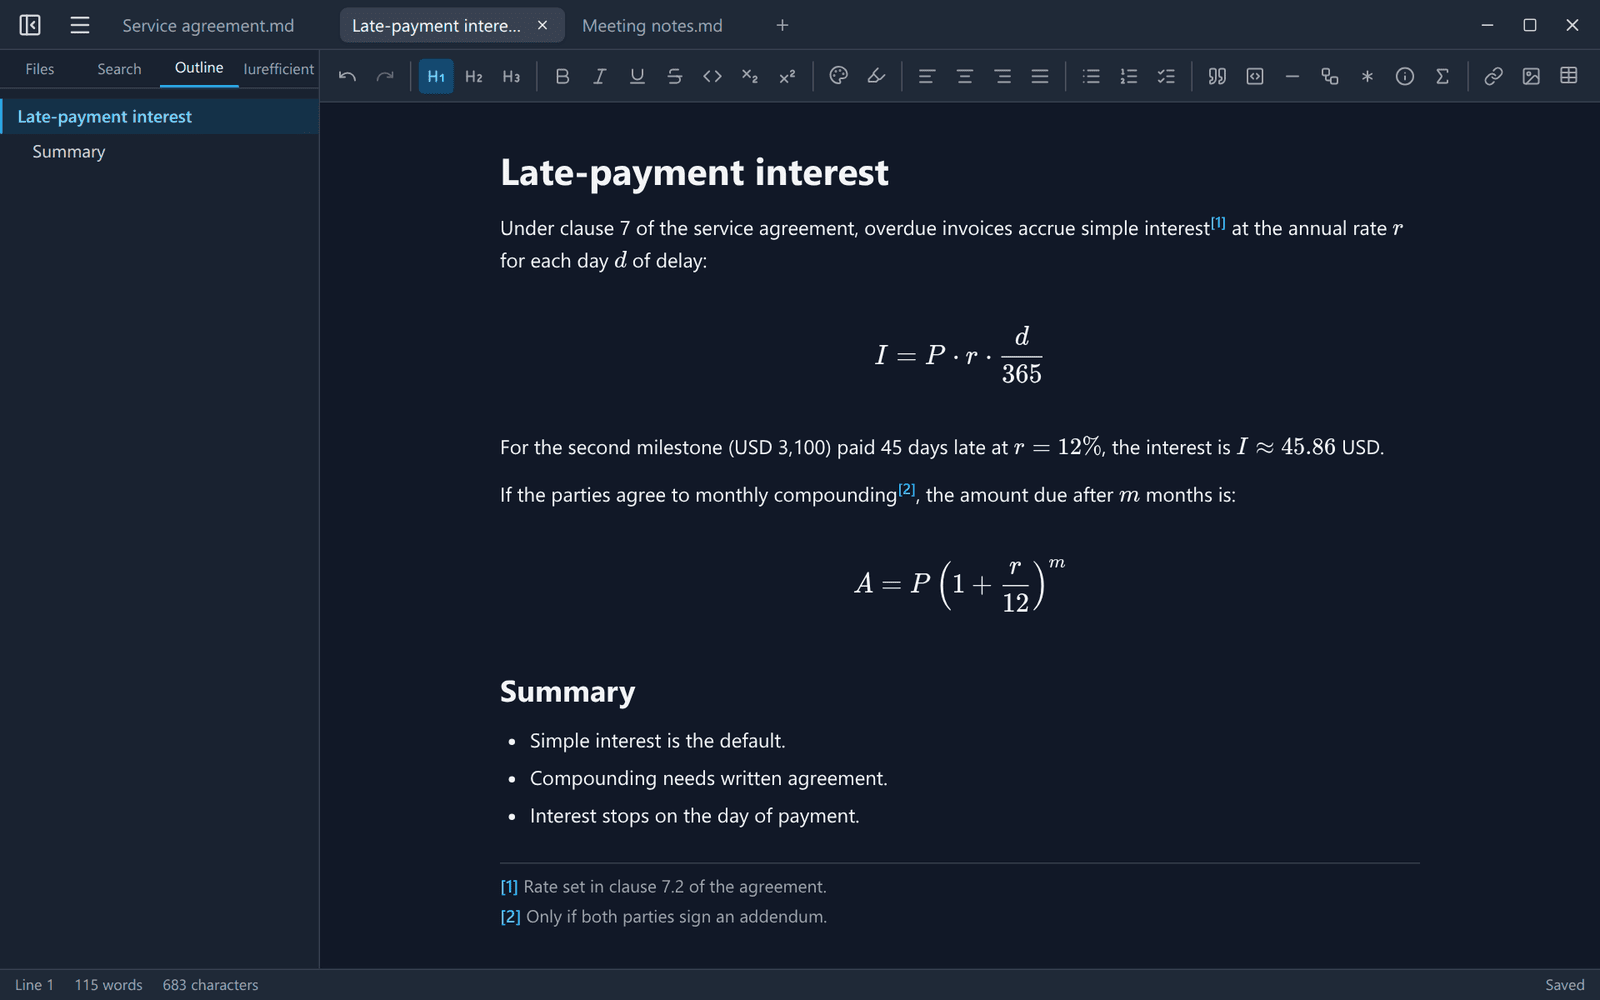
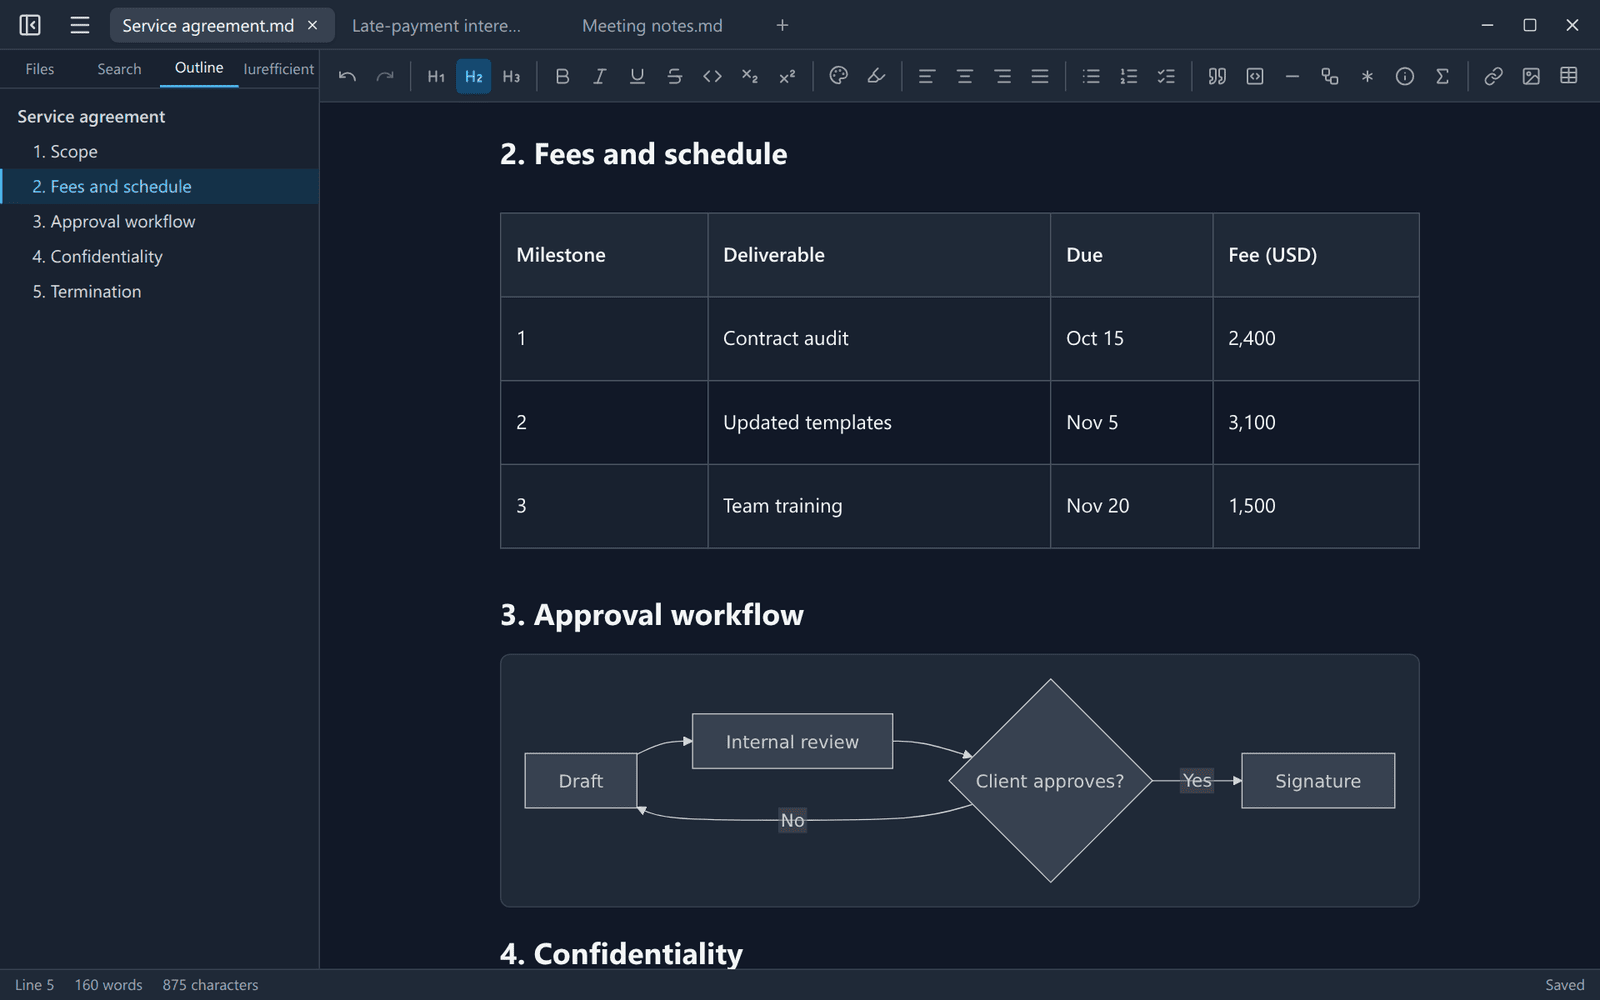
Mermaid legible con el tema oscuro; nombre en minúsculas
- Con el tema oscuro los diagramas se dibujan con el tema 'dark' de mermaid
  (fondo gray-800, nodos gray-700, secciones y etiquetas claras) y se
  vuelven a dibujar al cambiar de tema. Los exports (PDF/DOCX/HTML y
  SVG/PNG por diagrama) siguen usando el tema claro.
- Capturas dark-en/dark-es regeneradas con el contrato y su diagrama
  Mermaid; leyendas del README actualizadas.
- Comentario del updater: en Linux aplica también a .deb/.rpm (v1.9.1).
- "IureEditor" → "iureditor" en agente de usuario, app activa y textos.
- CHANGELOG: sección «Sin publicar».

diff --git a/src/lib/mermaid.ts b/src/lib/mermaid.ts
@@ -6,6 +6,8 @@ let mermaidInitPromise: Promise<typeof import('mermaid').default> | null = null;
 
 const BASE_CONFIG = {
   startOnLoad: false,
+  // Tema claro: es el de export (PDF/DOCX/HTML, SVG/PNG por diagrama), que
+  // debe salir apto para imprimir aunque la app esté en tema oscuro.
   theme: 'default' as const,
   securityLevel: 'strict' as const,
   // Fuente EXPLÍCITA y la misma que usa resvg al rasterizar (sans-serif →
@@ -30,6 +32,50 @@ const BASE_CONFIG = {
   },
 };
 
+// Tema oscuro, sólo para la vista en pantalla: con el tema default sobre el
+// fondo oscuro del nodo, líneas, flechas, bordes de grupo y etiquetas de
+// arista salían #333 sobre gris oscuro, casi invisibles. El tema 'dark' de
+// mermaid deriva líneas y texto claros a partir del fondo; se le da el mismo
+// fondo que el contenedor (gray-800) para que los contrastes calculados
+// coincidan con lo que se ve. Sin los cScaleLabel del tema claro: aquí las
+// secciones de mapas mentales/timelines ya son oscuras con texto claro.
+const DARK_CONFIG = {
+  ...BASE_CONFIG,
+  theme: 'dark' as const,
+  themeVariables: {
+    darkMode: true,
+    background: '#1f2937',
+    // Relleno de nodos gray-700 (el del tema, casi negro, quedaba más oscuro
+    // que el propio fondo y los nodos parecían agujeros).
+    mainBkg: '#374151',
+    primaryColor: '#374151',
+    // Grupos (subgraph) discretos: el calculado era un gris azulado claro.
+    clusterBkg: '#273244',
+    clusterBorder: '#6b7280',
+    // La primera sección de mapas mentales/timelines y la primera porción de
+    // los pies salían casi negras (#0b0000): se cambia por un azul oscuro.
+    cScale1: '#1e3a8a',
+    // Etiquetas de sección claras sobre los rellenos oscuros del tema.
+    ...Object.fromEntries(
+      Array.from({ length: 12 }, (_, i) => [`cScaleLabel${i}`, '#e5e7eb'])
+    ),
+  },
+};
+
+/** ¿La app está en tema oscuro? (clase `dark` en <html>, ver prefs.ts). */
+export const isDarkTheme = (): boolean =>
+  typeof document !== 'undefined' && document.documentElement.classList.contains('dark');
+
+// Configuración actualmente aplicada a la instancia global de mermaid, para
+// re-inicializar sólo cuando cambia (tema de la app o render de export).
+let appliedConfig: object | null = null;
+
+const applyConfig = (m: typeof import('mermaid').default, config: object) => {
+  if (appliedConfig === config) return;
+  m.initialize(config);
+  appliedConfig = config;
+};
+
 // Con htmlLabels:false los labels se dibujan como <text> SVG y mermaid no
 // interpreta HTML: etiquetas como <b> o <i> aparecían literales en el
 // diagrama. Se eliminan antes de renderizar (se conserva <br>, que mermaid
@@ -42,12 +88,19 @@ export async function getMermaid() {
   if (!mermaidInitPromise) {
     mermaidInitPromise = import('mermaid').then((mod) => {
       mermaidInstance = mod.default;
-      mermaidInstance.initialize(BASE_CONFIG);
+      applyConfig(mermaidInstance, BASE_CONFIG);
       return mermaidInstance;
     });
   }
   return mermaidInitPromise;
 }
+
+const FULL_SIZE_CONFIG = {
+  ...BASE_CONFIG,
+  flowchart: { useMaxWidth: false, htmlLabels: false, curve: 'basis' as const },
+  sequence: { useMaxWidth: false, width: 150, height: 65 },
+  gantt: { useMaxWidth: false, fontSize: 12 },
+};
 
 let renderCounter = 0;
 
@@ -70,10 +123,18 @@ const enqueue = <T>(job: () => Promise<T>): Promise<T> => {
   return run;
 };
 
-/** Renderiza código mermaid a SVG (string). Lanza si el código es inválido. */
-export function renderMermaidSvg(code: string): Promise<string> {
+/**
+ * Renderiza código mermaid a SVG (string). Lanza si el código es inválido.
+ * Por defecto sigue el tema de la app (vista en pantalla); `theme: 'light'`
+ * fuerza el tema claro (export de un diagrama suelto a SVG/PNG).
+ */
+export function renderMermaidSvg(
+  code: string,
+  { theme }: { theme?: 'light' | 'auto' } = {}
+): Promise<string> {
   return enqueue(async () => {
     const m = await getMermaid();
+    applyConfig(m, theme !== 'light' && isDarkTheme() ? DARK_CONFIG : BASE_CONFIG);
     const id = `iur-mermaid-${++renderCounter}`;
     const { svg } = await m.render(id, stripHtmlInLabels(code));
     return svg;
@@ -81,26 +142,16 @@ export function renderMermaidSvg(code: string): Promise<string> {
 }
 
 /**
- * Render a tamaño completo (sin useMaxWidth) para export y PDF.
- * Restaura la configuración base al terminar.
+ * Render a tamaño completo (sin useMaxWidth) para export y PDF. Siempre con
+ * el tema claro (apto para imprimir), sea cual sea el tema de la app.
  */
 export function renderFullSizeDiagram(code: string): Promise<string> {
   return enqueue(async () => {
     const m = await getMermaid();
     const id = `iur-mermaid-full-${++renderCounter}`;
 
-    m.initialize({
-      ...BASE_CONFIG,
-      flowchart: { useMaxWidth: false, htmlLabels: false, curve: 'basis' },
-      sequence: { useMaxWidth: false, width: 150, height: 65 },
-      gantt: { useMaxWidth: false, fontSize: 12 },
-    });
-
-    try {
-      const { svg } = await m.render(id, stripHtmlInLabels(code));
-      return svg;
-    } finally {
-      m.initialize(BASE_CONFIG);
-    }
+    applyConfig(m, FULL_SIZE_CONFIG);
+    const { svg } = await m.render(id, stripHtmlInLabels(code));
+    return svg;
   });
 }

diff --git a/src/components/MermaidNodeView.tsx b/src/components/MermaidNodeView.tsx
@@ -1,6 +1,6 @@
 import { NodeViewWrapper } from '@tiptap/react';
 import type { NodeViewProps } from '@tiptap/react';
-import { useEffect, useRef, useState } from 'react';
+import { useEffect, useRef, useState, useSyncExternalStore } from 'react';
 import {
   Pencil,
   Download,
@@ -8,7 +8,7 @@ import {
   AlertTriangle,
   ChevronDown,
 } from 'lucide-react';
-import { renderMermaidSvg } from '../lib/mermaid';
+import { renderMermaidSvg, isDarkTheme } from '../lib/mermaid';
 import { saveSvg, savePng } from '../lib/diagramExport';
 import { t, useLang } from '../lib/i18n';
 
@@ -45,6 +45,39 @@ const TEMPLATES = [
   },
 ] as const;
 
+// Tema de la app (clase `dark` en <html>): un único MutationObserver
+// compartido por todos los diagramas, para re-renderizarlos con el tema de
+// mermaid que toca cuando el usuario cambia de tema (o lo cambia el SO en
+// modo sistema).
+const themeListeners = new Set<() => void>();
+let themeObserver: MutationObserver | null = null;
+const subscribeTheme = (cb: () => void) => {
+  themeListeners.add(cb);
+  if (!themeObserver) {
+    themeObserver = new MutationObserver(() => themeListeners.forEach((l) => l()));
+    themeObserver.observe(document.documentElement, {
+      attributes: true,
+      attributeFilter: ['class'],
+    });
+  }
+  return () => {
+    themeListeners.delete(cb);
+    if (!themeListeners.size && themeObserver) {
+      themeObserver.disconnect();
+      themeObserver = null;
+    }
+  };
+};
+const useDarkTheme = () => useSyncExternalStore(subscribeTheme, isDarkTheme);
+
+/** SVG del diagrama con el tema claro (export SVG/PNG apto para imprimir,
+ *  aunque en pantalla se vea con el tema oscuro). */
+const lightSvgElement = async (code: string): Promise<SVGElement | null> => {
+  const holder = document.createElement('div');
+  holder.innerHTML = await renderMermaidSvg(code, { theme: 'light' });
+  return holder.querySelector('svg');
+};
+
 // Limpia los nodos huérfanos que mermaid deja en el <body> cuando falla render.
 const cleanupMermaidOrphans = (keep?: HTMLElement | null) => {
   document
@@ -59,6 +92,7 @@ const cleanupMermaidOrphans = (keep?: HTMLElement | null) => {
 // derecha, más plantillas por tipo de diagrama. Export SVG/PNG por diagrama.
 export const MermaidNodeView = ({ node, updateAttributes, selected }: NodeViewProps) => {
   useLang();
+  const dark = useDarkTheme();
   const code: string = node.attrs.code || '';
   const [svg, setSvg] = useState<string>('');
   const [error, setError] = useState<string | null>(null);
@@ -95,7 +129,7 @@ export const MermaidNodeView = ({ node, updateAttributes, selected }: NodeViewPr
     return () => {
       cancelled = true;
     };
-  }, [code]);
+  }, [code, dark]);
 
   // Vista previa en vivo del borrador, con debounce para no renderizar en cada
   // tecla.
@@ -125,7 +159,7 @@ export const MermaidNodeView = ({ node, updateAttributes, selected }: NodeViewPr
       cancelled = true;
       clearTimeout(id);
     };
-  }, [draft, editing]);
+  }, [draft, editing, dark]);
 
   useEffect(() => {
     if (editing) {
@@ -168,8 +202,9 @@ export const MermaidNodeView = ({ node, updateAttributes, selected }: NodeViewPr
     e.stopPropagation();
   };
 
-  const getSvgElement = (): SVGElement | null =>
-    containerRef.current?.querySelector('svg') ?? null;
+  // En tema claro basta el SVG en pantalla; en oscuro se re-renderiza claro.
+  const getExportSvg = async (): Promise<SVGElement | null> =>
+    dark ? lightSvgElement(code) : (containerRef.current?.querySelector('svg') ?? null);
 
   return (
     <NodeViewWrapper
@@ -197,8 +232,9 @@ export const MermaidNodeView = ({ node, updateAttributes, selected }: NodeViewPr
                 type="button"
                 title={t('mermaid.exportSvg')}
                 onClick={() => {
-                  const el = getSvgElement();
-                  if (el) void saveSvg(el, `${t('mermaid.fileName')}.svg`);
+                  void getExportSvg().then((el) => {
+                    if (el) return saveSvg(el, `${t('mermaid.fileName')}.svg`);
+                  });
                 }}
                 className="p-1.5 rounded bg-white/90 dark:bg-gray-700/90 border border-gray-200 dark:border-gray-600 text-gray-600 dark:text-gray-300 hover:bg-gray-100 dark:hover:bg-gray-600 shadow-sm"
               >
@@ -208,8 +244,9 @@ export const MermaidNodeView = ({ node, updateAttributes, selected }: NodeViewPr
                 type="button"
                 title={t('mermaid.exportPng')}
                 onClick={() => {
-                  const el = getSvgElement();
-                  if (el) void savePng(el, `${t('mermaid.fileName')}.png`);
+                  void getExportSvg().then((el) => {
+                    if (el) return savePng(el, `${t('mermaid.fileName')}.png`);
+                  });
                 }}
                 className="p-1.5 rounded bg-white/90 dark:bg-gray-700/90 border border-gray-200 dark:border-gray-600 text-gray-600 dark:text-gray-300 hover:bg-gray-100 dark:hover:bg-gray-600 shadow-sm"
               >

diff --git a/src/lib/updater.ts b/src/lib/updater.ts
@@ -2,8 +2,10 @@ import { ask, message } from '@tauri-apps/plugin-dialog';
 import { t } from './i18n';
 
 // Buscar e instalar actualizaciones (releases firmados de GitHub).
-// En Linux el updater sólo aplica al AppImage; una instalación por .deb
-// recibe el aviso pero debe actualizar con el paquete.
+// En Linux aplica a las tres formas de instalación (desde v1.9.1): latest.json
+// trae entradas linux-x86_64-deb y linux-x86_64-rpm además del AppImage, y el
+// plugin elige la del tipo de paquete instalado. Con .deb/.rpm la instalación
+// pide la contraseña de administrador.
 
 export const checkForUpdates = async (silent: boolean): Promise<void> => {
   try {
@@ -54,8 +56,8 @@ export const checkForUpdates = async (silent: boolean): Promise<void> => {
       await relaunch();
     }
   } catch (err) {
-    // Sin red, endpoint aún sin latest.json, o instalación .deb (Linux):
-    // el chequeo silencioso de arranque no molesta al usuario.
+    // Sin red, endpoint aún sin latest.json o sin entrada para esta
+    // plataforma/paquete: el chequeo silencioso de arranque no molesta al usuario.
     console.error('Chequeo de actualizaciones falló:', err);
     if (!silent) {
       const detail = err instanceof Error ? err.message : String(err);

diff --git a/src/lib/iurefficient.ts b/src/lib/iurefficient.ts
@@ -84,7 +84,7 @@ export interface AppStatus {
   latestVersion: string | null;
 }
 
-/** Apps de escritorio de Iurefficient (IureTranscribe, IureEditor, IureDav, IureOCR). */
+/** Apps de escritorio de Iurefficient (IureTranscribe, iureditor, IureDav, IureOCR). */
 export const apps = {
   status: (withNetwork: boolean) => invoke<AppStatus[]>('apps_status', { withNetwork }),
   launch: (app: AppId, path?: string) => invoke<void>('launch_app', { app, path: path ?? null }),

diff --git a/src-tauri/src/iurefficient.rs b/src-tauri/src/iurefficient.rs
@@ -41,7 +41,7 @@ pub struct IureState {
 }
 
 fn agente() -> String {
-    user_agent("IureEditor", env!("CARGO_PKG_VERSION"))
+    user_agent("iureditor", env!("CARGO_PKG_VERSION"))
 }
 
 pub fn init(app: &App) -> Result<(), Box<dyn std::error::Error>> {
@@ -204,7 +204,7 @@ pub async fn iure_login(
         },
     };
     persist_session(&acc, &sess);
-    let _ = iurefficient_connect::account::set_active(&acc, "IureEditor");
+    let _ = iurefficient_connect::account::set_active(&acc, "iureditor");
     {
         let mut c = state.config.lock().unwrap();
         c.domain = acc.host();

diff --git a/src-tauri/src/lib.rs b/src-tauri/src/lib.rs
@@ -73,7 +73,7 @@ fn get_cli_iure_doc() -> Option<IureDocLink> {
 #[tauri::command]
 async fn apps_status(with_network: bool) -> Vec<iurefficient_connect::apps::AppStatus> {
     if with_network {
-        iurefficient_connect::apps::status(&iurefficient_connect::user_agent("IureEditor", env!("CARGO_PKG_VERSION"))).await
+        iurefficient_connect::apps::status(&iurefficient_connect::user_agent("iureditor", env!("CARGO_PKG_VERSION"))).await
     } else {
         iurefficient_connect::apps::installed()
     }

diff --git a/CHANGELOG.md b/CHANGELOG.md
@@ -5,6 +5,22 @@ se genera automáticamente a partir de la sección correspondiente al tag
 (`.github/workflows/release.yml`), así que para publicar unas notas basta con
 añadir aquí la sección `## vX.Y.Z` antes de empujar el tag.
 
+## Sin publicar
+
+### Corregido
+- **Diagramas Mermaid legibles con el tema oscuro.** Las flechas, las líneas,
+  los bordes de los grupos y las etiquetas de las aristas salían oscuros sobre
+  el fondo oscuro y casi no se veían. Ahora, con el tema oscuro, los diagramas
+  se dibujan con colores claros sobre oscuro (también los mapas mentales, los
+  pies y las líneas de tiempo) y se vuelven a dibujar al cambiar de tema. Los
+  exports (PDF, DOCX, HTML y SVG/PNG de cada diagrama) siguen saliendo con el
+  tema claro, aptos para imprimir.
+
+### Cambiado
+- El nombre de la app se escribe en minúsculas («iureditor») también en lo que
+  se envía a Iurefficient (agente de usuario y app activa de la sesión
+  compartida).
+
 ## v1.9.2 — 2026-09-30
 
 ### Añadido
@@ -59,7 +75,7 @@ añadir aquí la sección `## vX.Y.Z` antes de empujar el tag.
 
 ### Añadido
 - **Una sola sesión para las tres apps.** Si IureDav o IureTranscribe ya
-  iniciaron sesión en este equipo, IureEditor arranca conectado a esa misma
+  iniciaron sesión en este equipo, iureditor arranca conectado a esa misma
   instancia y cuenta sin pedir nada; y al iniciar sesión aquí, las otras dos la
   encuentran. La sesión se sincroniza con el llavero antes de cada renovación
   para que dos apps abiertas a la vez no se invaliden entre sí (conector 0.5.0).
@@ -91,10 +107,10 @@ añadir aquí la sección `## vX.Y.Z` antes de empujar el tag.
 
 ### Añadido
 - **Apps de Iurefficient** al pie del panel «Iurefficient»: las tres apps de
-  escritorio (IureTranscribe, IureEditor e IureDav), cuáles están instaladas en
+  escritorio (IureTranscribe, iureditor e IureDav), cuáles están instaladas en
   este equipo, la última versión publicada y botones para abrirlas o descargarlas.
 - **Enlaces `iureditor://`.** `iureditor://open?path=/ruta/doc.md` abre un
-  archivo local (IureTranscribe lo usa para «Abrir con IureEditor») e
+  archivo local (IureTranscribe lo usa para «Abrir con iureditor») e
   `iureditor://iurefficient/doc?case=…&doc=…&name=…` descarga un documento de
   la instancia como espejo local y lo abre vinculado, listo para subir versiones.
 - Usa el conector común `iurefficient-connect` 0.4.2.

diff --git a/README.es.md b/README.es.md
@@ -42,11 +42,11 @@
   </tr>
   <tr>
     <td width="50%"><img src="docs/media/export-es.png" alt="El menú abierto en la sección Archivo con Exportar a PDF, DOCX y HTML, sobre varias pestañas abiertas"></td>
-    <td width="50%"><img src="docs/media/dark-es.png" alt="El mismo memorándum con el tema oscuro"></td>
+    <td width="50%"><img src="docs/media/dark-es.png" alt="El contrato de servicios con el tema oscuro: la tabla de honorarios y el flujo de aprobación en Mermaid, con líneas y etiquetas claras"></td>
   </tr>
   <tr>
     <td>Pestañas y el menú: exportar a PDF, DOCX o HTML.</td>
-    <td>Tema oscuro.</td>
+    <td>Tema oscuro, con diagramas Mermaid legibles.</td>
   </tr>
 </table>
 

diff --git a/README.md b/README.md
@@ -42,11 +42,11 @@
   </tr>
   <tr>
     <td width="50%"><img src="docs/media/export-en.png" alt="The menu open on the File section with Export to PDF, DOCX and HTML, above several open tabs"></td>
-    <td width="50%"><img src="docs/media/dark-en.png" alt="The same memo in the dark theme"></td>
+    <td width="50%"><img src="docs/media/dark-en.png" alt="The service agreement in the dark theme: the fees table and the Mermaid approval workflow, with light lines and labels"></td>
   </tr>
   <tr>
     <td>Tabs and the menu: export to PDF, DOCX or HTML.</td>
-    <td>Dark theme.</td>
+    <td>Dark theme, with Mermaid diagrams that stay readable.</td>
   </tr>
 </table>
 
